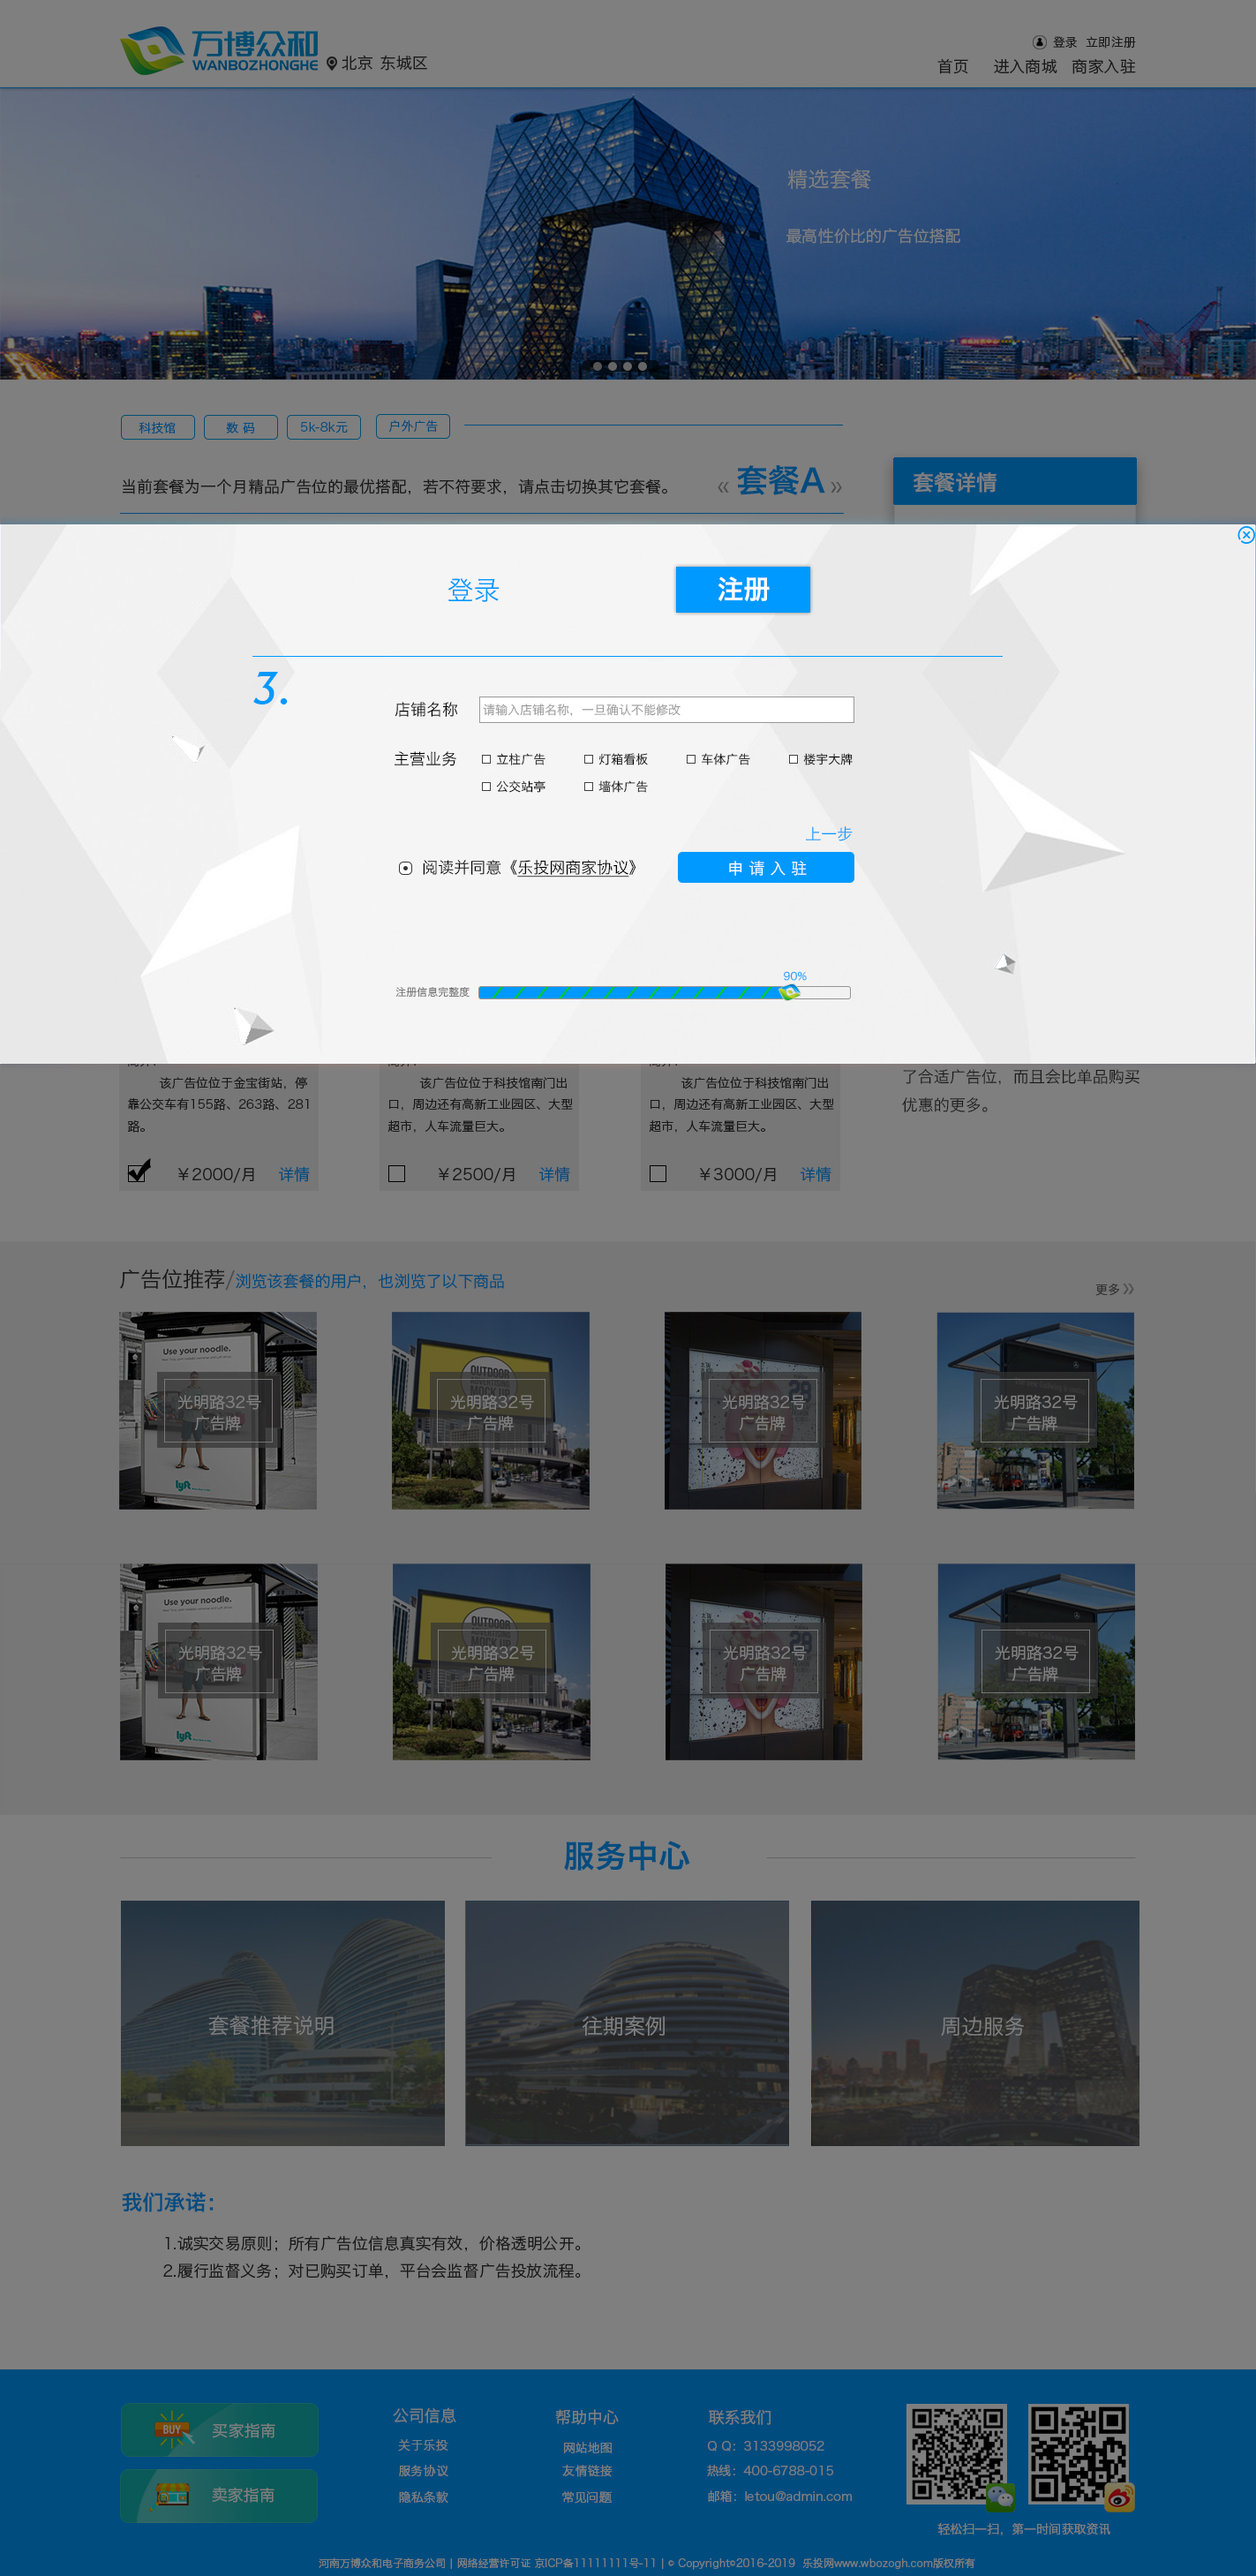
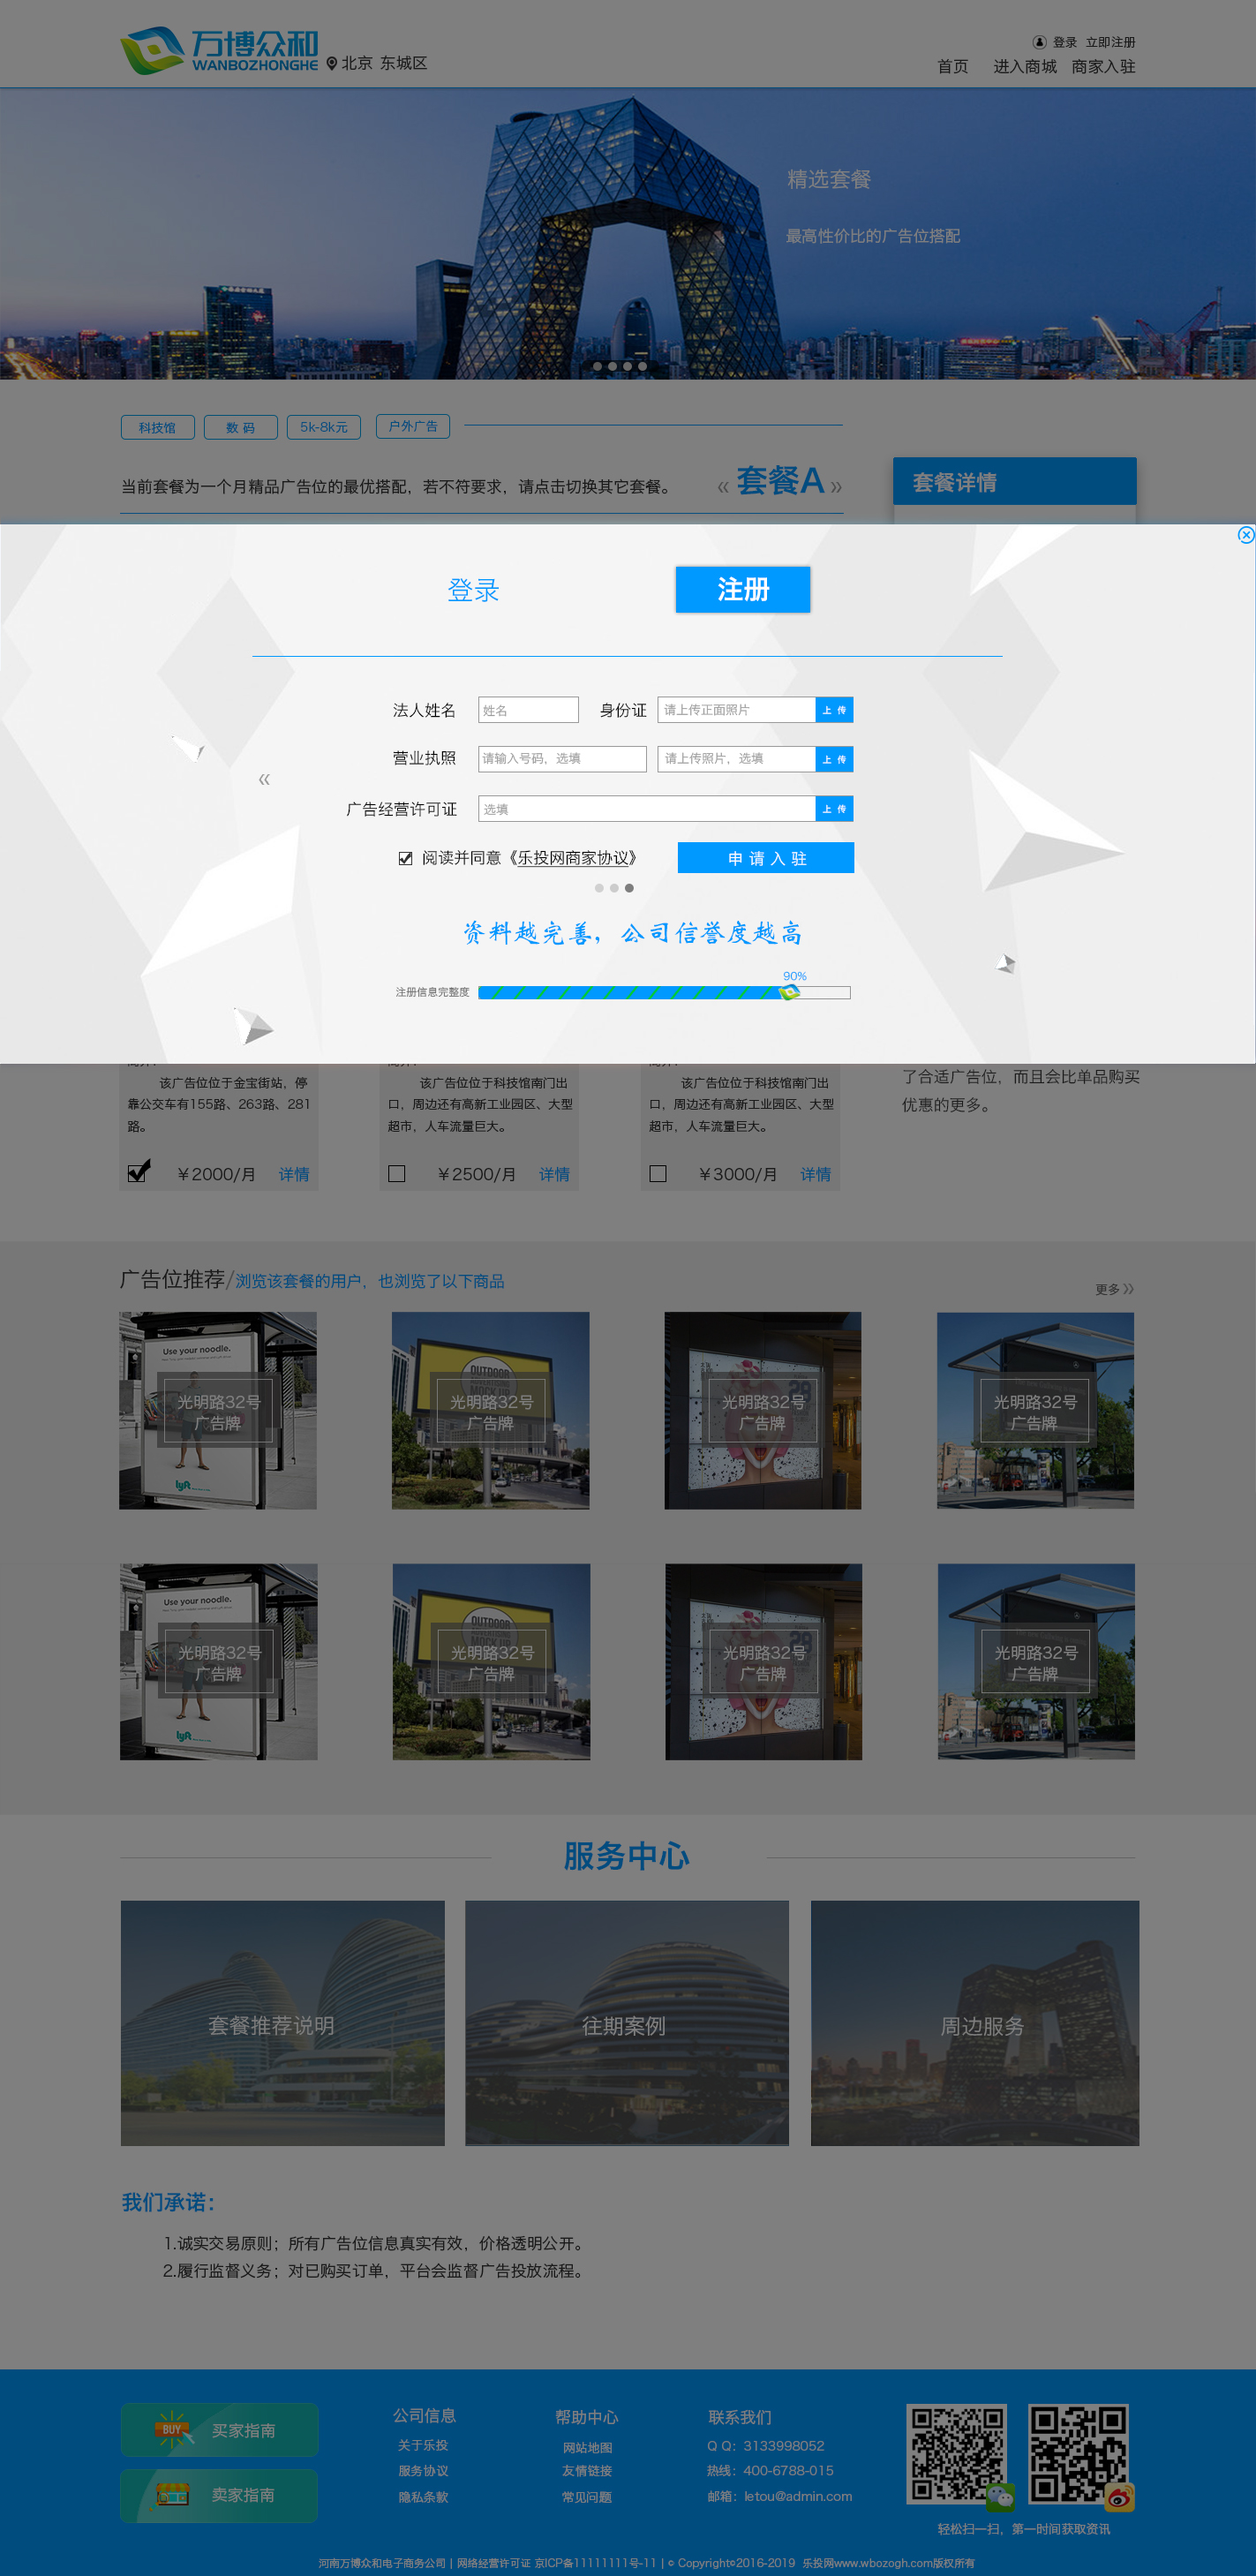
1
1

Changed region(s): [[0.3092, 0.2495, 0.5257, 0.3742], [0.5257, 0.2495, 0.6803, 0.3742]]

diff --git a/sjz2.html b/sjz2.html
@@ -16,16 +16,21 @@ body {
 <img src="images/sjz2.jpg" width="1423" usemap="#Map" border="0"  />
 <map name="Map" id="Map">
   <area shape="rect" coords="541,790,967,820" href="#" />
-  <area shape="rect" coords="544,952,966,986" href="#" />
+  <area shape="rect" coords="542,939,564,955" href="#" />
   <area shape="rect" coords="541,845,968,877" href="#" />
-  <area shape="rect" coords="541,900,750,930" href="#" />
-  <area shape="rect" coords="763,903,966,930" href="#" />
-  <area shape="rect" coords="914,1046,969,1072" href="sjz3.html" />
-  <area shape="rect" coords="847,1046,902,1069" href="sjz1.html" />
+  <area shape="rect" coords="541,900,559,926" href="#" />
+  <area shape="rect" coords="654,902,676,924" href="#" />
+  <area shape="rect" coords="1103,872,1158,898" href="sjz3.html" />
+  <area shape="rect" coords="277,871,332,894" href="sjz1.html" />
 <area shape="rect" coords="479,639,589,701" href="#" />
-<area shape="rect" coords="540,1004,967,1032" href="#" />
-  <area shape="rect" coords="802,647,889,693" href="#" />
+<area shape="rect" coords="802,647,889,693" href="#" />
   <area shape="rect" coords="1400,593,1424,619" href="index.html" />
+  <area shape="circle" coords="676,1008,9" href="sjz1.html" />
+  <area shape="circle" coords="713,1005,6" href="sjz3.html" />
+  <area shape="circle" coords="785,913,9" href="#" />
+  <area shape="circle" coords="902,915,9" href="#" />
+  <area shape="circle" coords="782,946,10" href="#" />
+  <area shape="circle" coords="663,948,11" href="#" />
 </map>
 </body>
 </html>

diff --git a/sjz3.html b/sjz3.html
@@ -16,19 +16,16 @@ body {
 <img src="images/sjz3.jpg" width="1423" usemap="#Map" border="0"  />
 <map name="Map" id="Map">
   <area shape="rect" coords="541,790,967,820" href="#" />
-  <area shape="rect" coords="768,966,968,1000" href="index.html" />
-  <area shape="rect" coords="543,845,562,869" href="#" />
-  <area shape="rect" coords="542,878,563,899" href="#" />
-  <area shape="rect" coords="659,880,676,902" href="#" />
-  <area shape="rect" coords="914,1046,969,1072" href="sjz3.html" />
-  <area shape="rect" coords="914,935,969,958" href="sjz2.html" />
+  <area shape="rect" coords="768,954,968,988" href="index.html" />
+  <area shape="rect" coords="543,845,965,875" href="#" />
+  <area shape="rect" coords="542,900,967,931" href="#" />
+  <area shape="rect" coords="280,871,335,897" href="sjz2.html" />
+  <area shape="rect" coords="691,996,704,1017" href="sjz2.html" />
 <area shape="rect" coords="479,639,589,701" href="#" />
-<area shape="rect" coords="437,967,724,998" href="#" />
+<area shape="rect" coords="438,960,724,985" href="#" />
   <area shape="rect" coords="802,647,889,693" href="#" />
   <area shape="rect" coords="1400,593,1424,619" href="index.html" />
-  <area shape="circle" coords="666,858,9" href="#" />
-  <area shape="circle" coords="782,859,12" href="#" />
-  <area shape="circle" coords="896,863,11" href="#" />
+  <area shape="rect" coords="674,993,685,1015" href="sjz1.html" />
 </map>
 </body>
 </html>

diff --git a/sjz1.html b/sjz1.html
@@ -20,11 +20,13 @@ body {
   <area shape="rect" coords="494,845,673,873" href="#" />
   <area shape="rect" coords="492,901,674,933" href="#" />
   <area shape="rect" coords="810,904,988,931" href="#" />
-  <area shape="rect" coords="937,946,992,972" href="sjz2.html" />
+  <area shape="rect" coords="1099,871,1154,897" href="sjz2.html" />
   <area shape="rect" coords="479,639,589,701" href="logins.html" />
 <area shape="rect" coords="811,845,988,873" href="#" />
   <area shape="rect" coords="802,647,889,693" href="#" />
   <area shape="rect" coords="1398,593,1422,619" href="index.html" />
+  <area shape="circle" coords="697,1003,10" href="sjz2.html" />
+  <area shape="circle" coords="717,1002,10" href="sjz3.html" />
 </map>
 </body>
 </html>
